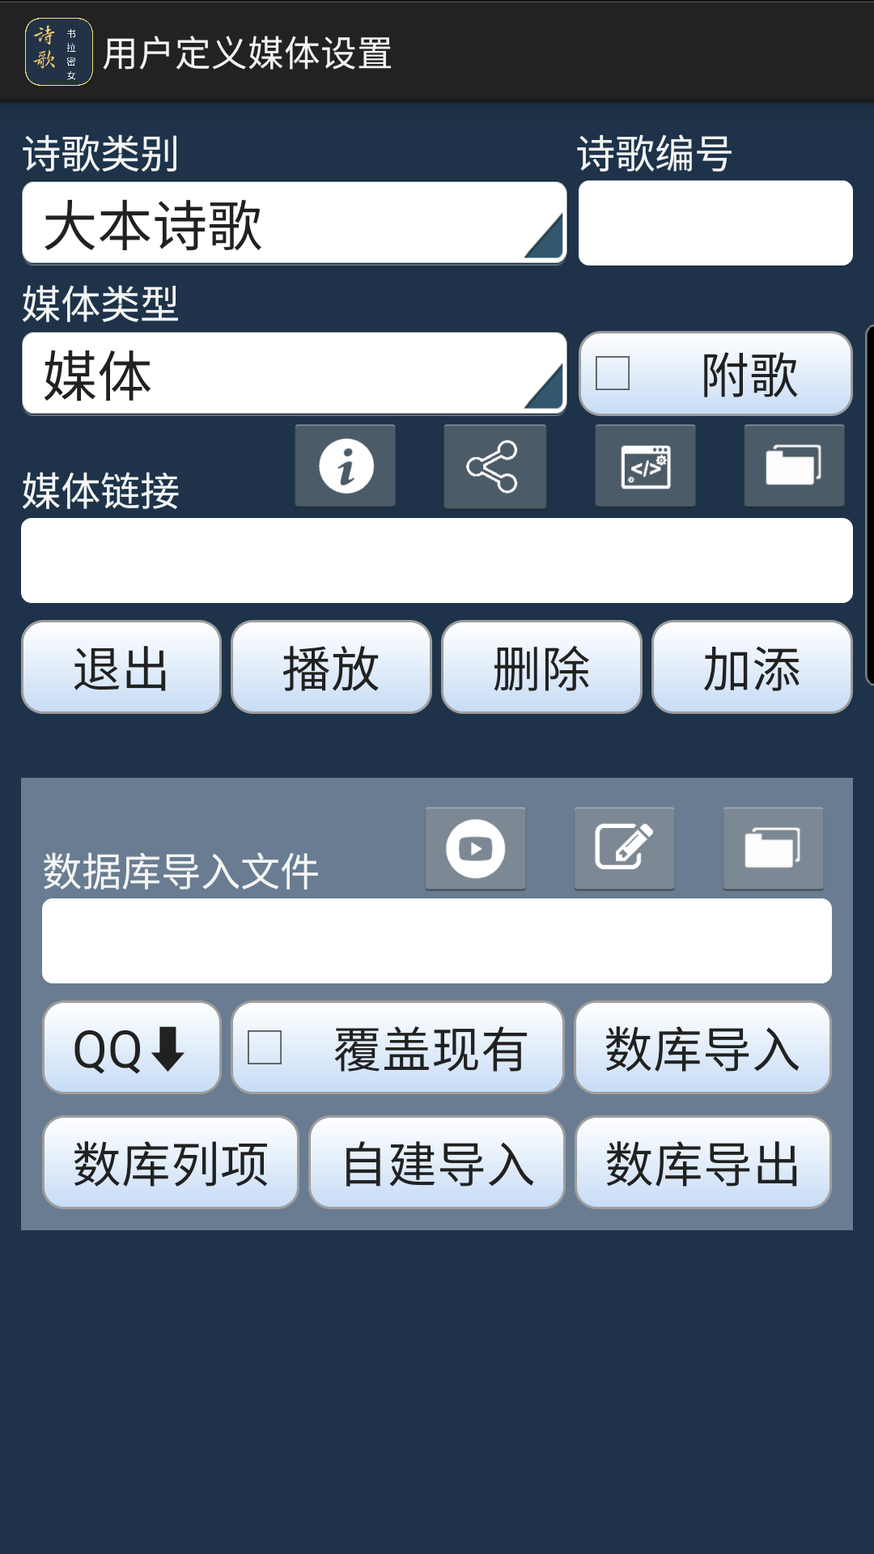
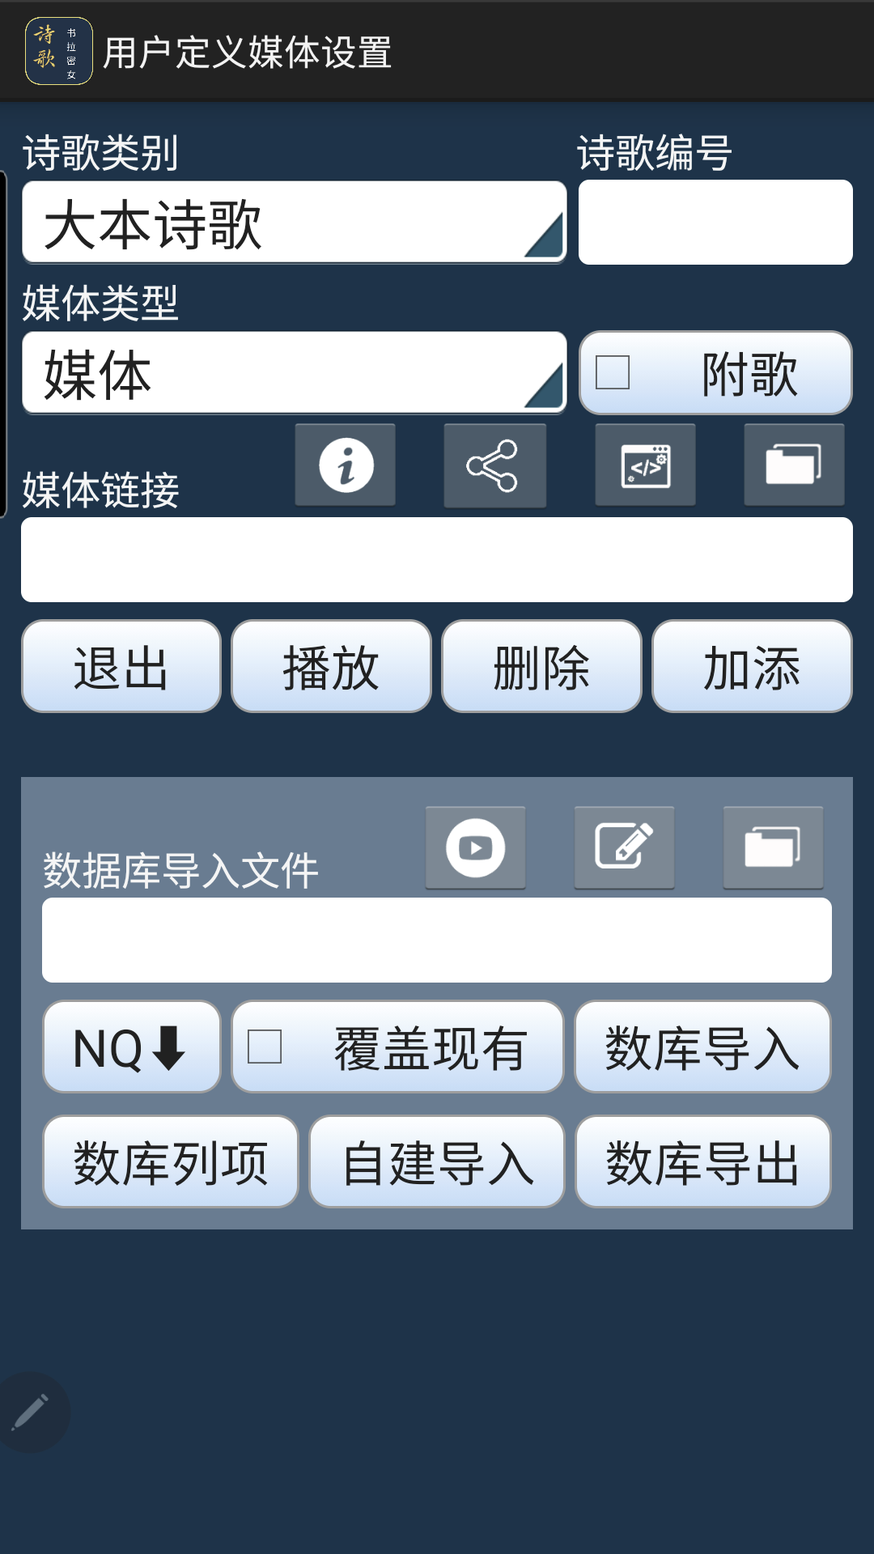
update hymnchtv features

diff --git a/hymnchtv/faq.html b/hymnchtv/faq.html
@@ -105,16 +105,16 @@ ul li {
        <li><a href=#hymnch_0040>[20220105] Hymn lyrics and media player UI interface</a></li>
      </ul>
      <ul>
-       <li><a href=#hymnch_0050>[20220705] Hymn media player UI interface, control and playback operations</a></li>
+       <li><a href=#hymnch_0050>[20221013] Hymn media player UI interface, control and playback operations</a></li>
      </ul>
      <ul>
        <li><a href=#hymnch_0060>[20201231] Hymn media storage and selection algorithm for playback</a></li>
      </ul>
      <ul>
-       <li><a href=#hymnch_0070>[20220105] User defined media configuration</a></li>
+       <li><a href=#hymnch_0070>[20221013] User defined media configuration</a></li>
      </ul>
      <ul>
-       <li><a href=#hymnch_0080>[20220705] User defined media database configuration</a></li>
+       <li><a href=#hymnch_0080>[20221013] User defined media database configuration</a></li>
      </ul>
      <ul>
        <li><a href=#hymnch_0090>[20220528] Hymnchtv debug version installation</a></li>
@@ -242,44 +242,40 @@ ul li {
    </div>
 
    <span id='hymnch_0050'></span>
-   <div class='blueText'>[20220705] Hymn media player UI interface, control and playback operations <a href=#content>{ Content }</a></div>
-   <div class='innerText'>Beside showing the hymn lyrics of the user selected HymnNo, Hymnchtv allows the playback of the
-     media content of the user selected HymnNo. Below lists the various hymn media available for the playback.
+   <div class='blueText'>[20221013] Hymn media player UI interface, control and playback operations <a href=#content>{ Content }</a></div>
+   <image border="2px solid blue" src="./img/hymnchtv_media_player_youtube.png" align="right" width="25%" style="margin:5px 0px 20px 15px"/>
+   <div class='innerText'>Beside showing the hymn lyrics of the user selected HymnNo, Hymnchtv can playback the selected
+     media content associated with any of the four buttons i.e. <b>媒体</b>, <b>伴奏</b>, <b>教唱</b> and <b>唱诗</b>.
+     The media content may include local stored video &amp; audio files, or media url for youtube or other internet
+     link shared via media configure UI. Pending the media content, the player used for playback can either be android
+     media player (midi), exo-player or youtube player as shown on the right. <br /><br />
+     Each hymn media button also provides the availability staus/indication of the media content for playback. The
+     button text is greyed when there is no associated media content for playback.
      <ul>
-       <div class='innerText'><image src="./img/hymnchtv_media_player_ui.png" align="right" width="25%" style="margin:5px 0px 20px 15px"/></div>
-       <li><b>搜索</b>: Search the relevant contents for the user selected HymnNo per the button actions below:<br/></li>
+       <li><b>媒体</b>: User defined media contents; usually use for media url for youtube or other internet link shared
+         via media configure UI.</li>
+       <li><b>伴奏</b>: Hymn accompany music only media playback. The playback media can either be from the embedded
+         midi files or downloaded from the predefined site.</li>
+       <image src="./img/hymnchtv_media_player_ui.png" align="right" width="26%" style="margin:5px 0px 20px 15px"/>
+       <li><b>教唱</b>: Hymn singing practice. Currently this is used to access the QQ url links available for <b>补充本</b>
+         HymnType; the databse records are being updated in new installation of hymnchtv v1.7.6 and above. When click
+         on the button with text greyed out will bring you to QQ main page. <b>Long Press</b> this button will also
+         show the QQ main page.</li>
+       <li><b>唱诗</b>: Local stored hymn music with words or associated url link.</li>
+       <li><b>搜索</b>: Search the relevant contents for the user selected HymnNo per the button actions below.
+           You may then navigate to the required hymn for playback, or share the link with hymnchtv for
+           later retrieval. When an url link is shared via this button, hymnchtv will auto fill all the <b>诗歌类别, 
+           诗歌编号, 媒体类型</b> and <b>附歌</b> entries. See also <a href=#hymnch_0070>User defined media configuration.</a></li>
          <ul>
-           <li><b>singleTap</b> to perform hymn info search via Notion/QQ sites; Will show the Notion main page if none
-           found. You may then navigate to the required hymn title for viewing, or share the link with hymnchtv for
-           later retrieval. See also <a href=#hymnch_0070>User defined media configuration</a></li>
-           <li><b>longPress</b> to perform hymn info search via youtube.com</li>
-           <li><b>DoubleTap</b> to perform hymn info search via google.com</li>
+           <li><b>Single Tap</b> to perform hymn info search via youtube.com</li>
+           <li><b>Long Press</b> to perform hymn info search via google.com</li>
            <li>Note: The user selected HymnNo info is also copied to the clipboard. You may paste this clipboard
              text into any of your preferred search engine to perform addtional content searching.</li>
          </ul>
-       <li><b>媒体</b>: User defined media contents; these may include video, audio and youtube/internet media url links.
-         Pending on the media type for video content, the player used for playback can either be exoplayer or youtube
-         player as shown on the right. The button text greyed out when there is no user media content defined in the
-         database.<br />
-         <b>Long Press</b> on this button to show Notion-info main page; allowing user to enter Notion main page in case
-         the <b>搜索</b> failed.</li>
-       <div class='innerText'><image border="2px solid blue" src="./img/hymnchtv_media_player_youtube.png" align="right" width="25%" style="margin:5px 0px 20px 15px"/></div>
-       <li><b>伴奏</b>: Hymn accompany music only media playback. The playback media can be using embedded midi files or
-         downloaded from the predefined site. The button text greyed out when there is no user media content defined
-         in the database.</li>
-       <li><b>教唱</b>: Hymn singing practice. Currently this is only available for 大本诗歌 DaBen HymnType. The button
-         text greyed out when there is no user media content defined in the database.</li>
-       <li><b>唱诗</b>: Hymn singing music with lyrics. The button text greyed out when there is no user media content
-         defined in the database.<br />
-         <b>Long Press</b> on this button to show QQ-info main page; allowing user to enter QQ main page in case
-         the <b>搜索</b> failed.</li>
        <li><b>Repeat/Loop Count</b>: Disable/Enable repeat playback with user defined loop count.</li>
        <li><b>Playback speed</b>: Variable playback speed. The available playback speed varies from 0.6x~1.4x of the
-         orignal hymn tempo.</li>
+         orignal hymn tempo. This setting applies to all the playback media.</li>
      </ul>
-
-     Each hymn media button also provides the availabilty staus/indication of the local media content for playback. The
-     button text is greyed when there is no local media file and required to be downloaded online when playback starts.<br/><br/>
 
      For hymn media playback: user first selects the required MediaType, the desired repeat/loop count and the playback
      speed; then followed by:
@@ -355,16 +351,15 @@ ul li {
    </div>
 
    <span id='hymnch_0070'></span>
-   <div class='blueText'>[20220105] User defined media configuration <a href=#content>{ Content }</a></div>
+   <div class='blueText'>[20221013] User defined media configuration <a href=#content>{ Content }</a></div>
    <div class='innerText'>Hymnchtv allows user to define a given media content playback to be associated with a
      HymnType/MediaType/HymnNo. The media content can either be a local saved medium file, an url link of an online
      audio/video media address, including the youtube shared link; the url link can also be a downloadable link of 
-     an audio media which can either be in mp3 or midi format. Hymnchtv supports both the video, and audio media playback.
-     The user defined media is primarily meant for the 媒体 MediaType, however you may also apply it to other MediaType
-     [伴奏|教唱|唱诗] if desired. Please follow below steps to add a user defined media to associate it with a given
-     HymnType/MediaType/HymnNo.
-     <div class='innerText'><image src="./img/hymnchtv_media_record_config.png" align="right" width="25%" style="margin:5px 0px 20px 15px"/></div>
-    <b>Local media file association</b>
+     an audio media which can either be in mp3 or midi format. Hymnchtv supports both the video and audio media playback.
+     The user defined media is primarily meant for the <b>媒体</b> MediaType, however you may also apply it to other
+     MediaType <b>[伴奏|教唱|唱诗]</b> if desired. Please follow below steps to add a user defined media to associate it
+     with a given HymnType/MediaType/HymnNo.
+     <br /><br /><b>Local media file association</b>
      <ul>
        <li>Decide which HymnType/MediaType the media content should be associated with.</li>
        <li>Copy the media file to your android device SDCard location. It is recommended that the file save 
@@ -372,6 +367,7 @@ ul li {
        <li><image src="./img/ic_folder.png" width="24" height="24" align="middle" style="margin:5px 5px"/>
          Use the Folder explorer to select and input the media filepath. Due to android file access security, the
          actual filepath in the <b>媒体链接</b> field entry may be a tmp path.</li>
+       <image src="./img/hymnchtv_media_record_config.png" align="right" width="25%" style="margin:5px 0px 20px 15px"/>
        <li><b>[诗歌类别|媒体类型]</b>: Using the two given android spinners in the UI, select the associated
          HymnType/MediaType for the selected media content.</li>
        <li><b>诗歌编号</b>: Enter the Hymn Number; check the <b>附歌</b> option if applicable.</li>
@@ -386,17 +382,20 @@ ul li {
        <li><b>播放</b>: After you have saved the new media record, or selected an item from the media record list; click
          the 播放 button to play the media content. The playback will be in the hymn score content window for user
          confirmation.</li>
+       <image border="2px solid blue" src="./img/hymnchtv_share_link_youtube.png" align="right" width="25%" style="margin:5px 0px 20px 15px"/>
        <li><b>退出</b>: Click the 退出 button to close the media record listing window, or exit the user defined media
          configuration setup.</li>
      </ul>
    </div>
    <div class='innerText'>Follow the steps given below, if the desired medium content to associate with a given
-     HymnType/MediaType is a medium from youtube site or a linked item from website. Below gives detailed descriptions
+     HymnType/MediaType is a medium from youtube site or a linked item from website. For simplified process, please
+     refer to <a href=#hymnch_0050>Hymn media player UI interface, control and playback operations</a> <b>搜索</b> 
+     operation. Below gives detailed descriptions
      on how to associate for each type of the content sources:
      <br /><br /><b>Youtube url link association <a href="./index.html#media_share">(demo video)</a></b>
-     <div class='innerText'><image src="./img/hymnchtv_share_link_youtube.png" align="right" width="25%" style="margin:5px 0px 20px 15px"/></div>
      <ul>
        <li>Launch the youtube app; find the desired youtube media link to be associated with.</li>
+       <image border="2px solid blue" src="./img/hymnchtv_share_sheet.png" align="right" width="25%" style="margin:5px 0px 20px 15px"/>
        <li>Start the youtube media playback.</li>
        <li>Click on the youtube <b>Share</b> option. This should be available just below the media player UI.</li>
        <li>Android launches the <b>Share</b> sheet UI as shown on the right; it presents all the applications that
@@ -406,9 +405,9 @@ ul li {
        <li>Click on the hymnchtv app icon.</li>
        <li>The hymnchtv user media config window will be opened with the required youtube url link pasted in <b>媒体链接</b>
          media url link field.</li>
+    <div class='innerText'><image src="./img/hymnchtv_media_url_config.png" align="right" width="25%" style="margin:5px 0px 20px 15px"/></div>
        <li>Proceed to select and input all other fields in the media configuration window
          i.e. HymnType/MediaType/HymnNo etc to associate with the added youtube url link.</li>
-       <div class='innerText'><image src="./img/hymnchtv_share_sheet.png" align="right" width="25%" style="margin:5px 0px 20px 15px"/></div>
        <li>Click the <b>加添</b> button to add/save the url link into the database.</li>
      </ul>
     <b>Normal web media content url link association</b>
@@ -420,8 +419,8 @@ ul li {
          be exactly same as youtube url share operation.</li>
        <li>If the option <b>Share link</b> is not available, then select <b>Copy link</b> to save a copy in the
          android clipboard.</li>
-       <div class='innerText'><image src="./img/hymnchtv_share_link.png" align="right" width="25%" style="margin:5px 0px 20px 15px"/></div>
        <li>Lauch hymnchtv app, then goes to <b>User media configuration</b> page.</li>
+       <image border="2px solid blue" src="./img/hymnchtv_share_link.png" align="right" width="25%" style="margin:5px 0px 20px 15px"/>
        <li>Long click on the <b>媒体链接</b> field entry, and select <b>Paste</b> option.</li>
        <li>If the pasted link is safe url encoded; it may contain unreadable charaters e.g. %xx. Just click the
          <image src="./img/ic_uri_decode.png" width="24" height="24" align="middle" style="margin:5px 5px"/> icon;
@@ -433,8 +432,8 @@ ul li {
      </ul>
     <b>Online media downloadable url link association</b>
      <ul>
-    <div class='innerText'><image src="./img/hymnchtv_share_dnlink.png" align="right" width="25%" style="margin:5px 0px 20px 15px"/></div>
        <li>Using a browser open the site where the desired downloadable media contents reside.</li>
+      <image border="2px solid blue" src="./img/hymnchtv_share_dnlink.png" align="right" width="25%" style="margin:5px 0px 20px 15px"/>
        <li>Right click  on the desired item object; a pop up window appears showing all the available options for
          the selected item.</li>
        <li>Select <b>Copy link address</b> to save a copy of the audio media link in the android clipboard.</li>
@@ -461,10 +460,10 @@ ul li {
        <li>Click the <b>加添</b> button to add/save the url link into the database.</li><br/>
 
        <li>For url link sharing with an actual media content: First find and save a copy of the actual media content
-         in the location as given in the shared url link i.e. Download/hymnchtv/hymn_bb/media_media/; and rename the
+         in the location as given in the shared url link i.e. <br />Download/hymnchtv/hymn_bb/media_media/; and rename the
          the media file exactly as given in the url link text i.e. ChHymns-0134.mp3.</li>
-       <li>Then made a copy of the url link text, paste and save as before.
-         e.g. hymn_bb,134,0,HYMN_MEDIA,null, /storage/emulated/0/Download/hymnchtv/hymn_bb/media_media/ChHymns-0134.mp3</li>
+       <li>Then made a copy of the url link text, paste and save as before. e.g. <br />
+         hymn_bb,134,0,HYMN_MEDIA,null, /storage/emulated/0/Download/hymnchtv/hymn_bb/media_media/ChHymns-0134.mp3</li>
 
        <li><b>Note:</b> For the imported link text association that was generated by hymnchtv, user is not required
          to enter any of the info below i.e. HymnType/MediaType/HymnNo etc. Hymnchtv will extract all these info
@@ -481,17 +480,18 @@ ul li {
   </div>
 
    <span id='hymnch_0080'></span>
-   <div class='blueText'>[[20220705] User defined media database configuration <a href=#content>{ Content }</a></div>
+   <div class='blueText'>[[20221013] User defined media database configuration <a href=#content>{ Content }</a></div>
    <div class='innerText'>Hymnchtv has built-in tools to ease user in managing the user defined media record/database.
      All the user defined media configurations are stored in the hymnchtv internal database as media records. The
      included functions provided allow one user to share his media contents setup in the database with another user by
      using the tools described below: 
      <ul>
-       <div class='innerText'><image src="./img/hymnchtv_media_db_config.png" align="right" width="25%" style="margin:5px 0px 20px 15px"/></div>
-       <li><b>数库导出</b>: Click this option button to export all the four defined HymnType's media records and the
-         网页链接 links. The exported file is saved as hymn_all-&lt;timestamp>.txt in the hymnchtv pre-defined directory 
-         e.g. Download/hymnchtv/import_export/hymn_all-20201213_142504.txt. The format of the filename is
-         Hymn_all-&lt;timestamp>, where the timestamp format is "YYYYMMDD_HHMMSS". If you long press on this option button,
+       <image src="./img/hymnchtv_media_db_config.png" align="right" width="25%" style="margin:5px 0px 20px 15px"/>
+       <li><b>数库导出</b>: <b>Short click</b> this option button to export all the four defined HymnType's media records and
+         the <b>网页链接</b> links. The exported file is saved as hymn_all-&lt;timestamp>.txt in the hymnchtv pre-defined
+         directory e.g. Download/hymnchtv/import_export/hymn_all-20211213_142504.txt. The format of the filename is
+         Hymn_all-&lt;timestamp>, where the timestamp format is "YYYYMMDD_HHMMSS".<br />
+         <b>Long press</b>: If you long press</b> on this option button,
          the file will only contain the media records with url links, and the file is named with hymn_link-&lt;timestamp>.txt.
          This url link-only file is shared with others without the need to transfer the actual media files </li>
        <li><b><a href="./index.html#create_export">自建导入</a></b>: Instead of creating an individual media record for
@@ -507,17 +507,17 @@ ul li {
        <li><b>数库导入</b>: <b>Short click</b> to import all the media record contents as defined in the import txt file into
          the hymnchtv database. Each media record will be saved in the respective database per the defined HymnType of
          the media record. See <b>覆盖现有</b> associates with this process.<br />
-         <b>Long press</b> to import url links from an internal hymnchtv saved assest file for the Notion 网页链接 links.
-         User should use this option in preference of the <b>NQ&#x2B07;</b>, using the later only for new update if any.</li>
+         <b>Long press</b> to import url links from an internal hymnchtv saved assest file for the <b>QQ 网页链接</b> links.
+         User should use this option in preference of the <b>QQ&#x2B07;</b>, using the later only for new update if any.</li>
        <li><b>覆盖现有</b>: Check this option if you want hymnchtv to overwrite any existing media record in the
          database during the database import <b>数库导入</b> process.</li>
-         <li><b>NQ&#x2B07;</b>: <b>Short click</b> this button to create all the Notion hymn info links in the database.
-         The web url fetching process is carried out in backgroud, and take some time pending on the network condition.
-         However the user may continue to use the app while the processs in running in background. These links are used
-         in the NQ-info search in <a href=#hymnch_0050>Hymn media player UI interface, control and playback operations</a><br />
-         <b>Long press</b> to fetch all the QQ hymn info links and saved in the database.<br />
-         <b>Note:</b> Some of the QQ links are currently being blocked by the service provider for user access. Notion
-         url fetching is now preferred, and both give the same final output results.</li>
+         <li><b>NQ&#x2B07;</b>: <b>Short click</b> this button to create all the QQ hymn info links in the database;
+         access via <b>教唱</b> button for playback. The web url fetching process is carried out in backgroud, and take
+         some time pending on the network condition. However the user may continue to use the app while the processs
+         in running in background.<br />
+         <b>Note:</b> Some of the QQ links are currently being blocked by the service provider for user access.<br />
+         <b>Long press</b> to fetch all the Notion hymn info links and saved in the database. Currently disabled as the
+           site is not further accessible.</li>
        <li><image src="./img/ic_folder.png" width="24" height="24" align="middle" style="margin:5px 5px"/>
          Use the Folder explorer to select the text file for import the media records into the database. After selected
          the desired import file, and on returning to media configuration page; the selected text file will be
@@ -574,20 +574,17 @@ ul li {
        <li><b>HymnNo</b>: The associated hymnNo for the given HymnType's media content. For 大本诗歌附歌 (Fu), the actual
          hymnNo stored in database starts with 781 for 附1 respectively, this is shown in the exported file above.
          User however may use '1' for 附1 when creating the export file. Hymnchtv can accept either one.</li>
-       <li><b>Fu</b>: 大本诗歌附歌 flag; Set this to '1' if the hymnNo denotes 附歌 else set it to '0' e.g.:
-         hymn_db,781,1,HYMN_MEDIA,null,/storage/emulated/0/
-         <br />Download/hymnchtv/hymn_db/media_media/ChHymns-c001.mp3</li>
-       <li><b>MediaType</b>: The hymn mediaType with all the possible string text values specified in upper case i.e.:
+       <li><b>Fu</b>: 大本诗歌附歌 flag; Set this to '1' if the hymnNo denotes 附歌 else set it to '0' e.g.:<br />
+         hymn_db,781,1,HYMN_MEDIA,null,/storage/emulated/0/Download/hymnchtv/hymn_db/media_media/ChHymns-c001.mp3</li>
+       <li><b>MediaType</b>: The hymn mediaType with all the possible string text values specified in upper case i.e.:<br />
          <b>[HYMN_MEDIA|HYMN_BANZOU|HYMN_JIAOCHANG |HYMN_CHANGSHI]</b>;
          </li>
        <li><b>Media Url</b>: This parameter specifies the actual web/youtube url link. Otherwise it is set to null if the
-         associated media content is a local media file. e.g.:
-         <br />hymn_bb,015,0,HYMN_MEDIA,
-         <br />https://youtu.be/432RvdcGaM4,null</li>
+         associated media content is a local media file. e.g.: <br />
+         hymn_bb,015,0,HYMN_MEDIA,https://youtu.be/432RvdcGaM4,null</li>
        <li><b>Media FilePath</b>: This parameter specifies the full path for the local stored medium file. This field should
-         be set to 'null' if the media content is referring to an url link. e.g.:
-         <br />hymn_db,616,0,HYMN_MEDIA,null,/storage/emulated/0/
-         <br />Download/hymnchtv/hymn_db/media_media/ChHymns-0616.mp3</li>
+         be set to 'null' if the media content is referring to an url link. e.g.: <br />
+         hymn_db,616,0,HYMN_MEDIA,null,/storage/emulated/0/Download/hymnchtv/hymn_db/media_media/ChHymns-0616.mp3</li>
      </ul>
    </div> 
 

diff --git a/atalk/index.html b/atalk/index.html
@@ -79,8 +79,8 @@
       <li>Auto accept file transfer request with max file size option</li>
       <li>Implement <a href="./faq.html#feature_05">fault-tolerance file transfer</a> algorithm, via Jingle File Transfer, Legacy In-Band/SOCK5 Bytestreams and HttpFileUpload protocols to ease and enhance file sharing reliability</li>
       <li>Enhance and harmonize UI for file sharing in chat and chatRoom</li>
-	    <li>Support share, quote and forward of messages and medias with preview prior to sending</li>
-	    <li>Support multi-instances of audio media player with functions: Play, Pause, Resume, Stop and Seek</li>
+	   <li>Support share, quote and forward of messages and medias with preview prior to sending</li>
+	   <li>Support multi-instances of audio media player with functions: Play, Pause, Resume, Stop and Seek</li>
       <li>Support unread message badges in contact and chatRoom list views</li>
       <li>User selectable option for heads-up notification and quite hours</li>
       <li>Share of social media links are tagged with thumbnail and title</li>
@@ -88,10 +88,10 @@
       <li>XEP-0012: Last Activity time associated with contacts</li>
       <li>XEP-0048: Bookmarks for conference room and autoJoin on login</li>			  
       <li>XEP-0070: Verifying HTTP Requests via XMPP entity for user authentication without password entry</li>
-	    <li>XEP-0071: XHTML-IM Support chat messages containing lightweight text markup</li>
-	    <li>XEP-0085: Chat State Notifications</li>
-	    <li>XEP-0124: Bidirectional-streams Over Synchronous HTTP (BOSH) with Proxy support</li>
-	    <li>XEP-0178: Use of SASL EXTERNAL with TLS Certificates for client authentication</li>
+	   <li>XEP-0071: XHTML-IM Support chat messages containing lightweight text markup</li>
+	   <li>XEP-0085: Chat State Notifications</li>
+	   <li>XEP-0124: Bidirectional-streams Over Synchronous HTTP (BOSH) with Proxy support</li>
+	   <li>XEP-0178: Use of SASL EXTERNAL with TLS Certificates for client authentication</li>
       <li>XEP-0184: Message Delivery Receipts with user enable/disable option</li>
       <li>XEP-0251: Jingle Session Transfer: Support both Unattended and Attended call transfer</li>
       <li>XEP-0391: Jingle Encrypted Transports for OMEMO encrypted media file sharing</li>
